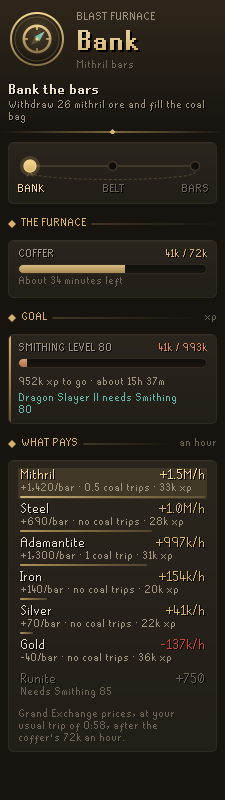
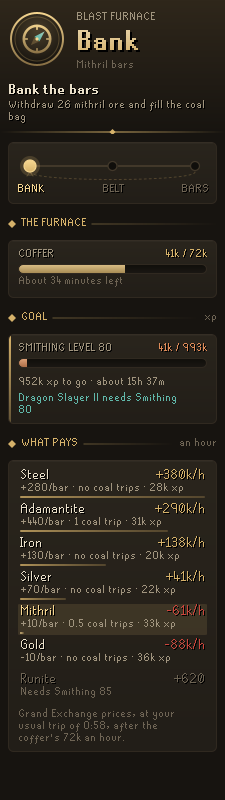
Keep a reward a newer version saved, show example prices on the what-pays picture, and steady the bank timing check
Owned.decode dropped any reward name this version does not know, and the next save (any
new reward seen) wrote the list back without it, so after an update and a downgrade, or a
newer build on another computer, the goal card asked you to buy a reward you already own.
A name that looks like a reward's is now kept and saved again; damage is still dropped,
and at most 16 unknown names are kept so it cannot grow.

The what-pays screenshot was drawn with made-up prices (mithril at +1,420 a bar). It is
redrawn with example prices near the Grand Exchange's, and the README says under it that
the picture's prices are examples and the game uses live ones.

The 1,500-item bank timing check failed at 3.6 ms on a busy machine; it now takes the
quickest of five batches. A Contract comment that had come adrift is back on its method.

diff --git a/src/main/java/com/codex/minigamepilot/core/Owned.java b/src/main/java/com/codex/minigamepilot/core/Owned.java
@@ -1,8 +1,11 @@
 package com.codex.minigamepilot.core;
 
+import java.util.ArrayList;
 import java.util.EnumSet;
+import java.util.List;
 import java.util.Locale;
 import java.util.Set;
+import java.util.regex.Pattern;
 
 /**
  * The shop rewards you have been seen to own, remembered per account. A carpenter's outfit or a
@@ -15,6 +18,15 @@ public final class Owned
 {
 	private final EnumSet<Goal.Reward> owned = EnumSet.noneOf(Goal.Reward.class);
 	private final EnumSet<Goal.Reward> borrowed = EnumSet.noneOf(Goal.Reward.class);
+	/**
+	 * Saved names this version does not know (a reward a newer version added), kept as they were
+	 * so saving again does not forget that you own it.
+	 */
+	private final List<String> unknown = new ArrayList<>();
+	/** What a reward's saved name looks like; anything else is damage, and dropped. */
+	private static final Pattern NAME = Pattern.compile("[A-Z][A-Z0-9_]{0,47}");
+	/** At most this many unknown names are kept, so damage cannot make the saved value grow. */
+	private static final int KEEP_UNKNOWN = 16;
 
 	/**
 	 * One tick.
@@ -80,10 +92,21 @@ public final class Owned
 			}
 			b.append(r.name());
 		}
+		for (String name : unknown)
+		{
+			if (b.length() > 0)
+			{
+				b.append(',');
+			}
+			b.append(name);
+		}
 		return b.toString();
 	}
 
-	/** Reads a saved memory; unknown names are dropped. Group storage sightings start afresh. */
+	/**
+	 * Reads a saved memory. A name this version does not know is kept to be saved again, unless it
+	 * is not a name at all. Group storage sightings start afresh.
+	 */
 	public static Owned decode(String saved)
 	{
 		Owned o = new Owned();
@@ -103,7 +126,13 @@ public final class Owned
 			}
 			catch (IllegalArgumentException e)
 			{
-				// A reward this version does not know is left out.
+				// A reward this version does not know counts for nothing here, but is kept for
+				// the version that wrote it.
+				String name = part.trim();
+				if (NAME.matcher(name).matches() && !o.unknown.contains(name) && o.unknown.size() < KEEP_UNKNOWN)
+				{
+					o.unknown.add(name);
+				}
 			}
 		}
 		return o;

diff --git a/src/test/java/com/codex/minigamepilot/core/SavedKeysFuzzTest.java b/src/test/java/com/codex/minigamepilot/core/SavedKeysFuzzTest.java
@@ -295,12 +295,18 @@ public class SavedKeysFuzzTest
 		{
 			BankStock.steward(GSON, json);
 		}
-		long t = System.nanoTime();
-		for (int i = 0; i < 100; i++)
+		// The quickest of five batches: one batch on a busy machine (a shared CI runner, or this
+		// test run beside others) read 3.6 ms and failed it.
+		double ms = Double.MAX_VALUE;
+		for (int batch = 0; batch < 5; batch++)
 		{
-			BankStock.steward(GSON, json);
+			long t = System.nanoTime();
+			for (int i = 0; i < 20; i++)
+			{
+				BankStock.steward(GSON, json);
+			}
+			ms = Math.min(ms, (System.nanoTime() - t) / 1e6 / 20);
 		}
-		double ms = (System.nanoTime() - t) / 1e6 / 100;
 		assertTrue(ms + " ms", ms < 3);
 		org.junit.Assert.assertEquals(5000, BankStock.steward(GSON, json).count(453));
 	}
@@ -321,5 +327,26 @@ public class SavedKeysFuzzTest
 			});
 		}
 		survive("contract", ":", Contract::decode);
+	}
+
+	@Test
+	public void aRewardANewerVersionAddedIsNotForgottenOnTheNextSave()
+	{
+		// A newer version saved a reward this one does not know. Decoding dropped it, and the
+		// next save (any new reward seen) wrote the list back without it: back on the newer
+		// version, the goal card asked you to buy what you already owned.
+		Owned o = Owned.decode("PLANK_SACK,GOLDEN_NUGGET_HAT");
+		org.junit.Assert.assertTrue(o.has(Goal.Reward.PLANK_SACK));
+		String again = o.encode();
+		org.junit.Assert.assertTrue(again, again.contains("GOLDEN_NUGGET_HAT"));
+		org.junit.Assert.assertTrue(again, again.contains("PLANK_SACK"));
+		// Damage is still dropped, and cannot make the value grow.
+		org.junit.Assert.assertEquals("PLANK_SACK", Owned.decode("PLANK_SACK,garbage,{},, ,\"x\"").encode());
+		StringBuilder many = new StringBuilder();
+		for (int i = 0; i < 500; i++)
+		{
+			many.append("NEW_").append(i).append(',');
+		}
+		org.junit.Assert.assertTrue(Owned.decode(many.toString()).encode().split(",").length <= 16);
 	}
 }

diff --git a/src/test/java/com/codex/minigamepilot/core/OwnedTest.java b/src/test/java/com/codex/minigamepilot/core/OwnedTest.java
@@ -40,7 +40,7 @@ public class OwnedTest
 	}
 
 	@Test
-	public void savesNamesAndDropsTheUnknown()
+	public void savesNamesAndKeepsTheUnknownForTheVersionThatWroteThem()
 	{
 		Owned o = new Owned();
 		o.see(EnumSet.of(Goal.Reward.PLANK_SACK, Goal.Reward.PROSPECTOR_HELMET, Goal.Reward.BIGGER_SACK), NONE, false);
@@ -48,6 +48,7 @@ public class OwnedTest
 		Owned read = Owned.decode("PLANK_SACK,NOT_A_REWARD,,bigger_sack");
 		assertTrue(read.has(Goal.Reward.PLANK_SACK));
 		assertFalse(read.has(Goal.Reward.BIGGER_SACK));
-		assertEquals("PLANK_SACK", read.encode());
+		// A name this version does not know counts for nothing, but is saved again as it was.
+		assertEquals("PLANK_SACK,NOT_A_REWARD", read.encode());
 	}
 }

diff --git a/src/main/java/com/codex/minigamepilot/core/Contract.java b/src/main/java/com/codex/minigamepilot/core/Contract.java
@@ -121,7 +121,6 @@ public final class Contract
 		return tier;
 	}
 
-	/** Whether a hotspot value still needs work. */
 	/**
 	 * The contract saved as "home:tier" (the tier left off while not known), or null when there
 	 * is none or it names no home.
@@ -143,6 +142,7 @@ public final class Contract
 		return new Contract(home, tier);
 	}
 
+	/** Whether a hotspot value still needs work. */
 	public static boolean needsWork(int value)
 	{
 		return value == 1 || value == 3 || value == 4;

diff --git a/README.md b/README.md
@@ -102,6 +102,8 @@ At the furnace the panel ranks every bar by what it makes at today's Grand Excha
   <img src="docs/screenshots/what-pays.png" width="225" alt="What each bar pays">
 </p>
 
+<sub>The picture is drawn with example prices, not live ones. In game every figure comes from the Grand Exchange prices RuneLite has at the time, so the order of the bars moves with the market.</sub>
+
 ## Works with other Codex plugins
 
 Both are read only, never written, and everything works without them.
